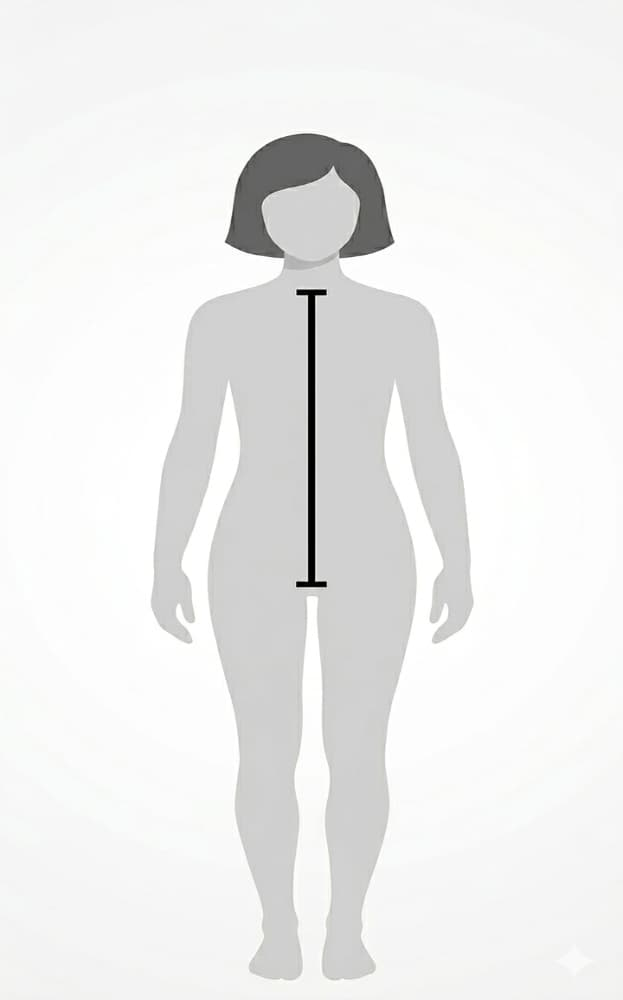
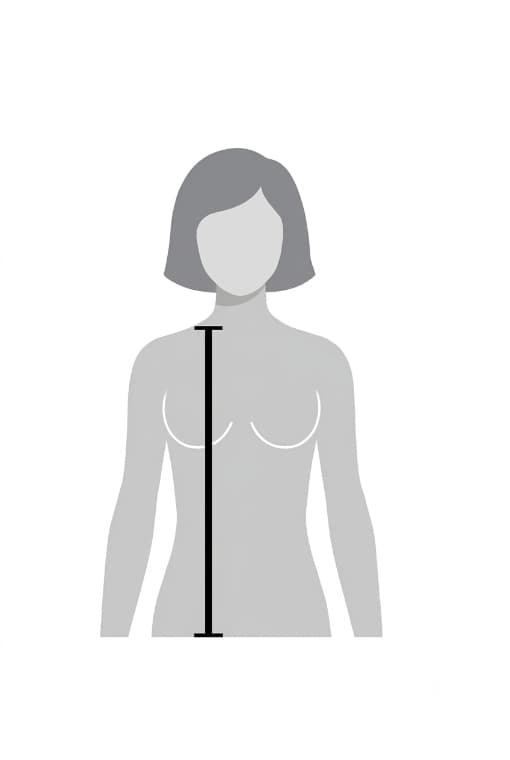
changed measurement illustration image

Changed region(s): [[0.1765, 0.1211, 0.7647, 0.9987]]

diff --git a/src/contexts/datas/femaleBodyMeasurementDatas.js b/src/contexts/datas/femaleBodyMeasurementDatas.js
@@ -17,9 +17,9 @@ import biceps from '../../assets/femaleBodyMeasurementImages/biceps.jpg'
 import armLength from '../../assets/femaleBodyMeasurementImages/armLength.jpg'
 import fullSleeveLength from '../../assets/femaleBodyMeasurementImages/fullSleeveLength.jpg'
 import fullSleeveLengthCircular from '../../assets/femaleBodyMeasurementImages/fullSleeveLengthCircular.jpg'
-import sleeveLengthHalf from '../../assets/femaleBodyMeasurementImages/sleeveLengthHalf.jpg'
-import threeFourthSleeveLength from '../../assets/femaleBodyMeasurementImages/threeFourthSleeveLength.jpg'
-import threeFourthSleeveLengthCircular from '../../assets/femaleBodyMeasurementImages/threeFourthSleeveLengthCircular.jpg'
+import armLengthHalf from '../../assets/femaleBodyMeasurementImages/armLengthHalf.jpg'
+import threeQuarterSleeveLength from '../../assets/femaleBodyMeasurementImages/threeQuarterSleeveLength.jpg'
+import threeQuarterSleeveLengthCircular from '../../assets/femaleBodyMeasurementImages/threeQuarterSleeveLengthCircular.jpg'
 import elbowLength from '../../assets/femaleBodyMeasurementImages/elbowLength.jpg'
 import elbowCircular from '../../assets/femaleBodyMeasurementImages/elbowCircular.jpg'
 import shortSleeveLength from "../../assets/femaleBodyMeasurementImages/shortSleeveLength.jpg"
@@ -31,10 +31,10 @@ import stomach from '../../assets/femaleBodyMeasurementImages/stomach.jpg'
 import waist from '../../assets/femaleBodyMeasurementImages/waist.jpg'
 import blouseLength from '../../assets/femaleBodyMeasurementImages/blouseLength.jpg'
 import shirtLength from '../../assets/femaleBodyMeasurementImages/shirtLength.jpg'
-import stomachLength from '../../assets/femaleBodyMeasurementImages/stomachLength.jpg'
-import waistLength from '../../assets/femaleBodyMeasurementImages/waistLength.jpg'
+import shoulderToStomachLength from '../../assets/femaleBodyMeasurementImages/shoulderToStomachLength.jpg'
+import shoulderToWaistLength from '../../assets/femaleBodyMeasurementImages/shoulderToWaistLength.jpg'
 import hip from '../../assets/femaleBodyMeasurementImages/hip.jpg'
-import hipLength from '../../assets/femaleBodyMeasurementImages/hipLength.jpg'
+import shoulderToHipLength from '../../assets/femaleBodyMeasurementImages/shoulderToHipLength.jpg'
 import crotch from '../../assets/femaleBodyMeasurementImages/crotch.jpg'
 import thigh from '../../assets/femaleBodyMeasurementImages/thigh.jpg'
 import thighLength from '../../assets/femaleBodyMeasurementImages/thighLength.jpg'
@@ -54,17 +54,19 @@ export const FEMALE_BODY_MEASUREMENTS = [
   'Shoulder To Apex', 'Apex To Apex',
   'Upper Chest', 'Bust', 'Chest', 'Blouse Chest', 'Blouse Below Bust',
   'Arm Hole', 'Biceps', 'Arm Length','Full Sleeve Length', 
-  'Full Sleeve Length Circular','Sleeve Length Half',
-  'Three Fourth Sleeve Length', 'Three Fourth Sleeve Length Circular',
+  'Full Sleeve Length Circular','Arm Length Half',
+  'Three Quarter Sleeve Length', 'Three Quarter Sleeve Length Circular',
   'Elbow Length', 'Elbow Circular',
   "Short Sleeve Length","Short Sleeve Length Circular",
   'Cap Sleeve', 'Cap Sleeve Circular',
   'Wrist',
+
   // Mid body
-  'Stomach', 'Waist',
-  'Blouse Length', 'Shirt Length', 'Stomach Length', 'Waist Length',
+  'Blouse Length', 'Shirt Length','Shoulder To Waist Length', 'Shoulder To Stomach Length', 'Shoulder To Hip Length',
+  'Waist','Stomach' ,'Hip',  
+  
   // Lower body
-  'Hip', 'Hip Length', 'Crotch',
+  'Crotch',
   'Thigh', 'Thigh Length', 'Knee Length',
   'Calf', 'Calf To Ankle', 'Ankle',
   'Wrist To Ankle', 'Full Height', 'Kurthi Height',
@@ -92,29 +94,28 @@ export const FEMALE_BODY_MEASUREMENT_IMAGES = {
   'Arm Length': armLength,
   'Full Sleeve Length': fullSleeveLength,
   'Full Sleeve Length Circular': fullSleeveLengthCircular,
-  'Sleeve Length Half': sleeveLengthHalf,
-  'Three Fourth Sleeve Length': threeFourthSleeveLength,
-  'Three Fourth Sleeve Length Circular': threeFourthSleeveLengthCircular,
+  'Arm Length Half': armLengthHalf,
+  'Three Quarter Sleeve Length': threeQuarterSleeveLength,
+  'Three Quarter Sleeve Length Circular': threeQuarterSleeveLengthCircular,
   'Elbow Length': elbowLength,
   'Elbow Circular': elbowCircular,
   "Short Sleeve Length": shortSleeveLength,
   "Short Sleeve Length Circular": shortSleeveLengthCircular,
   'Cap Sleeve': capSleeve,
   'Cap Sleeve Circular': capSleeveCircular,
-
-
-
   'Wrist': wrist,
+
   // Mid body
-  'Stomach': stomach,
-  'Waist': waist,
   'Blouse Length': blouseLength,
   'Shirt Length': shirtLength,
-  'Stomach Length': stomachLength,
-  'Waist Length': waistLength,
-  // Lower body 
+  'Shoulder To Waist Length': shoulderToWaistLength,
+  'Shoulder To Stomach Length': shoulderToStomachLength,
+  'Shoulder To Hip Length': shoulderToHipLength,
+  'Waist': waist,
+  'Stomach': stomach,
   'Hip': hip,
-  'Hip Length': hipLength,
+
+  // Lower body 
   'Crotch': crotch,
   'Thigh': thigh,
   'Thigh Length': thighLength,